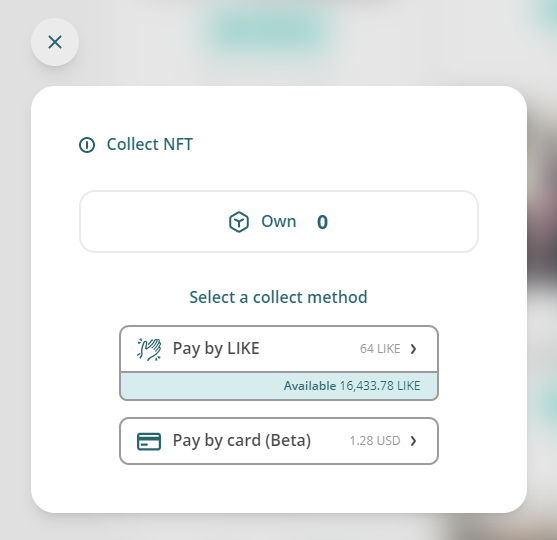
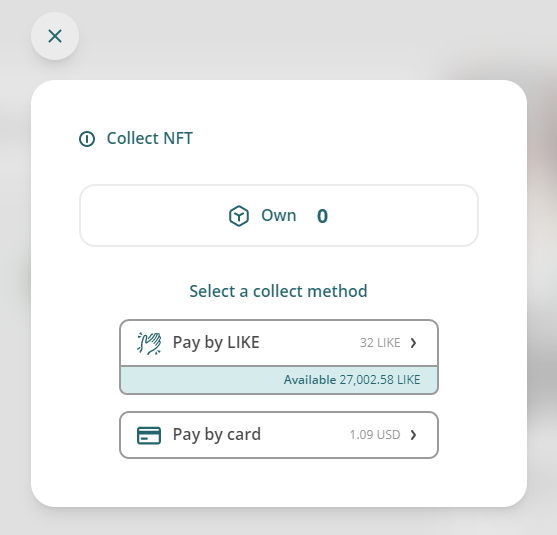
GitBook: [#4230] Writing NFT

diff --git a/user-guide/liker-id/edit-avatar-displayname.md b/user-guide/liker-id/edit-avatar-displayname.md
@@ -4,9 +4,9 @@ description: Set up your unique identity
 
 # Edit Avatar and Name
 
-### How to set up
+## How to set up
 
-#### Web
+### Web
 
 Login [Liker Land](https://liker.land/) with [Keplr Browser Extension](../../general-guides/wallet/keplr/) and click "Settings".
 
@@ -16,7 +16,7 @@ A pop-up windows appears, click "Change Avatar" and change the "Display Name".
 
 <figure><img src="../../.gitbook/assets/avatar desktop-en.png" alt=""><figcaption></figcaption></figure>
 
-#### Mobile
+### Mobile
 
 On the [Liker Land app](../liker-land/download.md) check the avatar to change it.
 
@@ -28,19 +28,19 @@ Click on setting at the lower right hand corner and select \[Profile], then clic
 
 
 
-### Use Case
+## Use Case
 
 Your name and avatar will appear in various Liker Land scenarios:
 
-#### NFT Portfolio
+### NFT Portfolio
 
 {% content-ref url="../../general-guides/writing-nft/nft-portfolio.md" %}
 [nft-portfolio.md](../../general-guides/writing-nft/nft-portfolio.md)
 {% endcontent-ref %}
 
-<figure><img src="broken-reference" alt=""><figcaption></figcaption></figure>
+<figure><img src="../../.gitbook/assets/NFT Portfolio.png" alt=""><figcaption></figcaption></figure>
 
-#### LikeCoin button
+### LikeCoin button
 
 {% content-ref url="../creator/" %}
 [creator](../creator/)
@@ -48,7 +48,7 @@ Your name and avatar will appear in various Liker Land scenarios:
 
 ![](<../../.gitbook/assets/Settings 02.png>)
 
-#### Liker Land app and web
+### Liker Land app and web
 
 {% content-ref url="../liker-land/download.md" %}
 [download.md](../liker-land/download.md)
@@ -56,7 +56,7 @@ Your name and avatar will appear in various Liker Land scenarios:
 
 ![](<../../.gitbook/assets/Settings 03.png>)
 
-#### LIKE pay
+### LIKE pay
 
 {% content-ref url="../../general-guides/wallet/like-pay.md" %}
 [like-pay.md](../../general-guides/wallet/like-pay.md)

diff --git a/general-guides/writing-nft/collect-writing-nft.md b/general-guides/writing-nft/collect-writing-nft.md
@@ -100,7 +100,7 @@ An Liker Land window will pop-up, click "Approve".
 
 ### Step 2: Purchase Writing NFT
 
-The Collect NFT page appears, click "Pay by LIKE" to purchase Writing NFT with LikeCoin, or click "Pay by card (Beta)" to purchase with a credit card.
+The Collect NFT page appears, click "Pay by LIKE" to purchase Writing NFT with LikeCoin, or click "Pay by card" to purchase with a credit card.
 
 <figure><img src="../../.gitbook/assets/Buy NFT 06.png" alt=""><figcaption></figcaption></figure>
 
